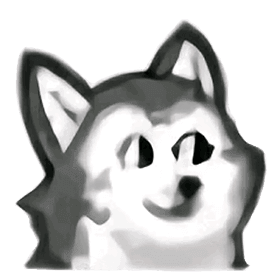
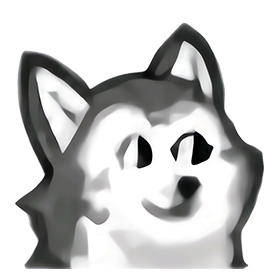
chore: update config.ts

diff --git a/.vitepress/config.ts b/.vitepress/config.ts
@@ -1,10 +1,16 @@
-import { defineConfig } from 'vitepress';
+import { defineConfigWithTheme } from 'vitepress';
+import { ThemeConfig } from './theme/src/types';
+import { getPosts } from './theme/src/utils/getPosts';
 
-export default defineConfig({
-  title: 'Minimalism',
+const pageSize = 9;
+const { posts, rewrites } = await getPosts(pageSize);
+export default defineConfigWithTheme<ThemeConfig>({
+  title: '只抄',
   titleTemplate: 'VitePress Theme Minimalism',
   description: 'VitePress Theme Minimalism',
+  rewrites,
   themeConfig: {
+    posts,
     outline: { level: [2, 3], label: '目录' },
     nav: [
       { text: 'Home', link: '/' },
@@ -28,12 +34,12 @@ export default defineConfig({
     },
     socialLinks: [{ icon: 'github', link: 'https://github.com/izhichao/vitepress-theme-minimalism' }],
     footer: {
-      message: `友情链接：<a href="https://xn--4gq62f52gdss.com/#/register?code=dHfuMweo">一元机场</a>&nbsp;
-      <a href="https://bwh81.net/aff.php?aff=46644">搬瓦工</a>&nbsp;
-      <a href="https://my.racknerd.com/aff.php?aff=6884">RackNerd</a>&nbsp;
-      <a href="https://vps.hosting/?affid=816">V.PS</a>`,
-      copyright:
-        'Theme by <a href="https://github.com/izhichao/vitepress-theme-minimalism">Minimalism</a> | Copyright © 2017-2023 <a href="https://github.com/izhichao">只抄</a>'
+      message: `友情链接：<a href="https://xn--4gq62f52gdss.com/#/register?code=dHfuMweo" target="_blank">一元机场</a>&nbsp;
+      <a href="https://bwh81.net/aff.php?aff=46644" target="_blank">搬瓦工</a>&nbsp;
+      <a href="https://my.racknerd.com/aff.php?aff=6884" target="_blank">RackNerd</a>&nbsp;
+      <a href="https://vps.hosting/?affid=816" target="_blank">V.PS</a><br />
+      Theme by <a href="https://github.com/izhichao/vitepress-theme-minimalism" target="_blank">Minimalism</a>`,
+      copyright: 'Copyright © 2017-2023 <a href="https://github.com/izhichao" target="_blank">只抄</a>'
     },
     search: { provider: 'local' }
   },
@@ -41,5 +47,5 @@ export default defineConfig({
     theme: 'dark-plus',
     lineNumbers: true
   },
-  srcExclude: ['README.md']
+  srcExclude: ['README.md', 'README_EN.md']
 });